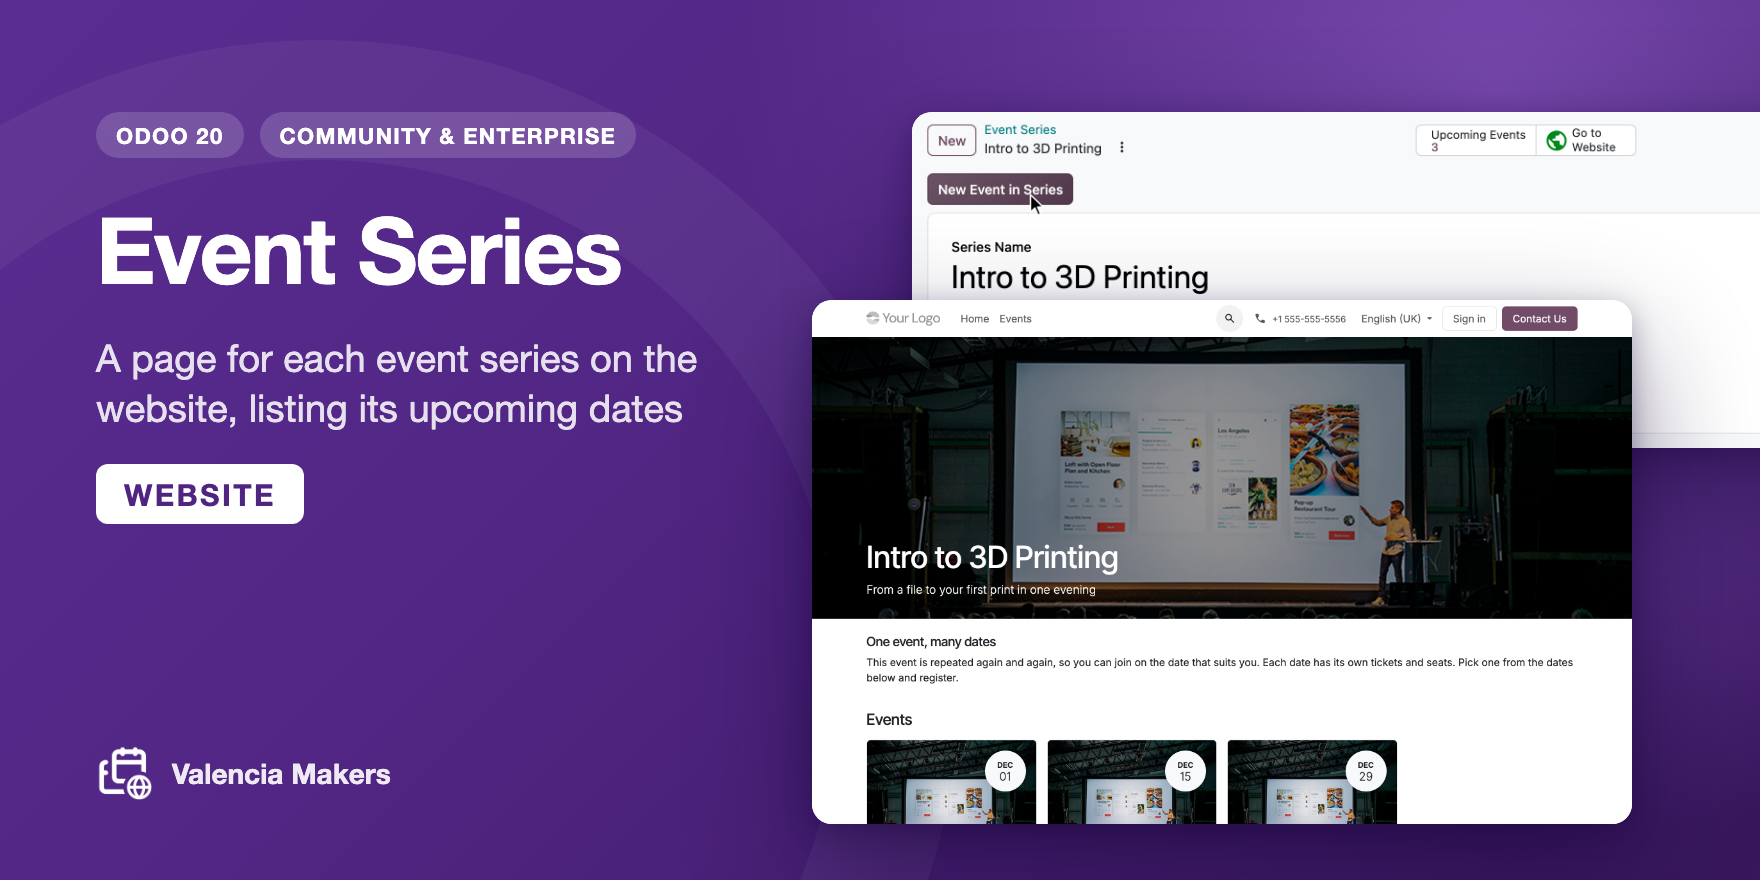
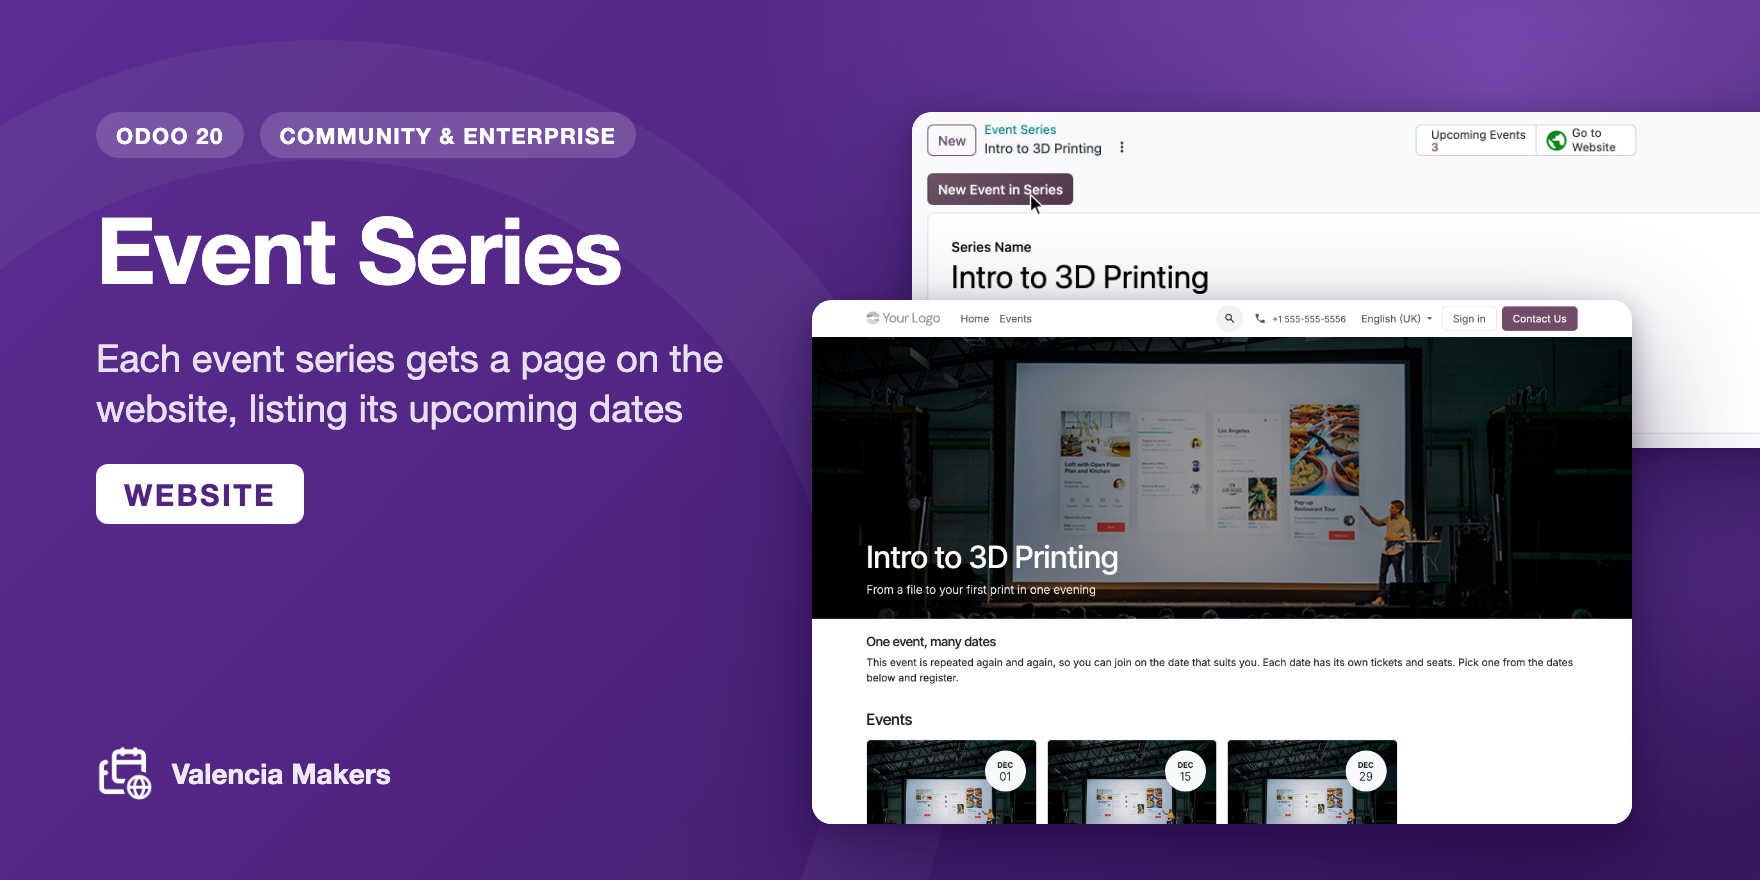
Reword vmk_website_event_series' summary
- Summary: "Each event series gets a page on the website, listing its
  upcoming dates", in the manifest, the cover, and the name test.
- es and ca carry the new wording; the other 19 catalogues regenerated
  by odev i18n fill, which left the summary blank there as before.

Changed region(s): [[0.0312, 0.3989, 0.4062, 0.4295]]

diff --git a/tools/covers/vmk_website_event_series.html b/tools/covers/vmk_website_event_series.html
@@ -9,7 +9,7 @@
     <div class="text">
         <div class="badges"><span class="badge">Odoo 20</span><span class="badge">Community &amp; Enterprise</span></div>
         <h1>Event Series</h1>
-        <p class="tagline">A page for each event series on the website, listing its upcoming dates</p>
+        <p class="tagline">Each event series gets a page on the website, listing its upcoming dates</p>
         <div class="flag">Website</div>
     </div>
     <div class="brand"><img src="../../vmk_website_event_series/static/description/icon.png" alt="">Valencia Makers</div>

diff --git a/vmk_website_event_series/tests/test_translations.py b/vmk_website_event_series/tests/test_translations.py
@@ -29,7 +29,7 @@ class TestModuleNameTranslation(TransactionCase):
     I18N = Path(__file__).resolve().parent.parent / "i18n"
     MODULE_METADATA = (
         "Event Series (Website)",
-        "A page for each event series on the website, listing its upcoming dates",
+        "Each event series gets a page on the website, listing its upcoming dates",
     )
 
     def _translation(self, catalogue, msgid):

diff --git a/vmk_website_event_series/__manifest__.py b/vmk_website_event_series/__manifest__.py
@@ -3,7 +3,7 @@
 
 {
     "name": "Event Series (Website)",
-    "summary": "A page for each event series on the website, listing its upcoming dates",
+    "summary": "Each event series gets a page on the website, listing its upcoming dates",
     "version": "20.0.1.0.0",
     "author": "Valencia Makers",
     "license": "LGPL-3",
